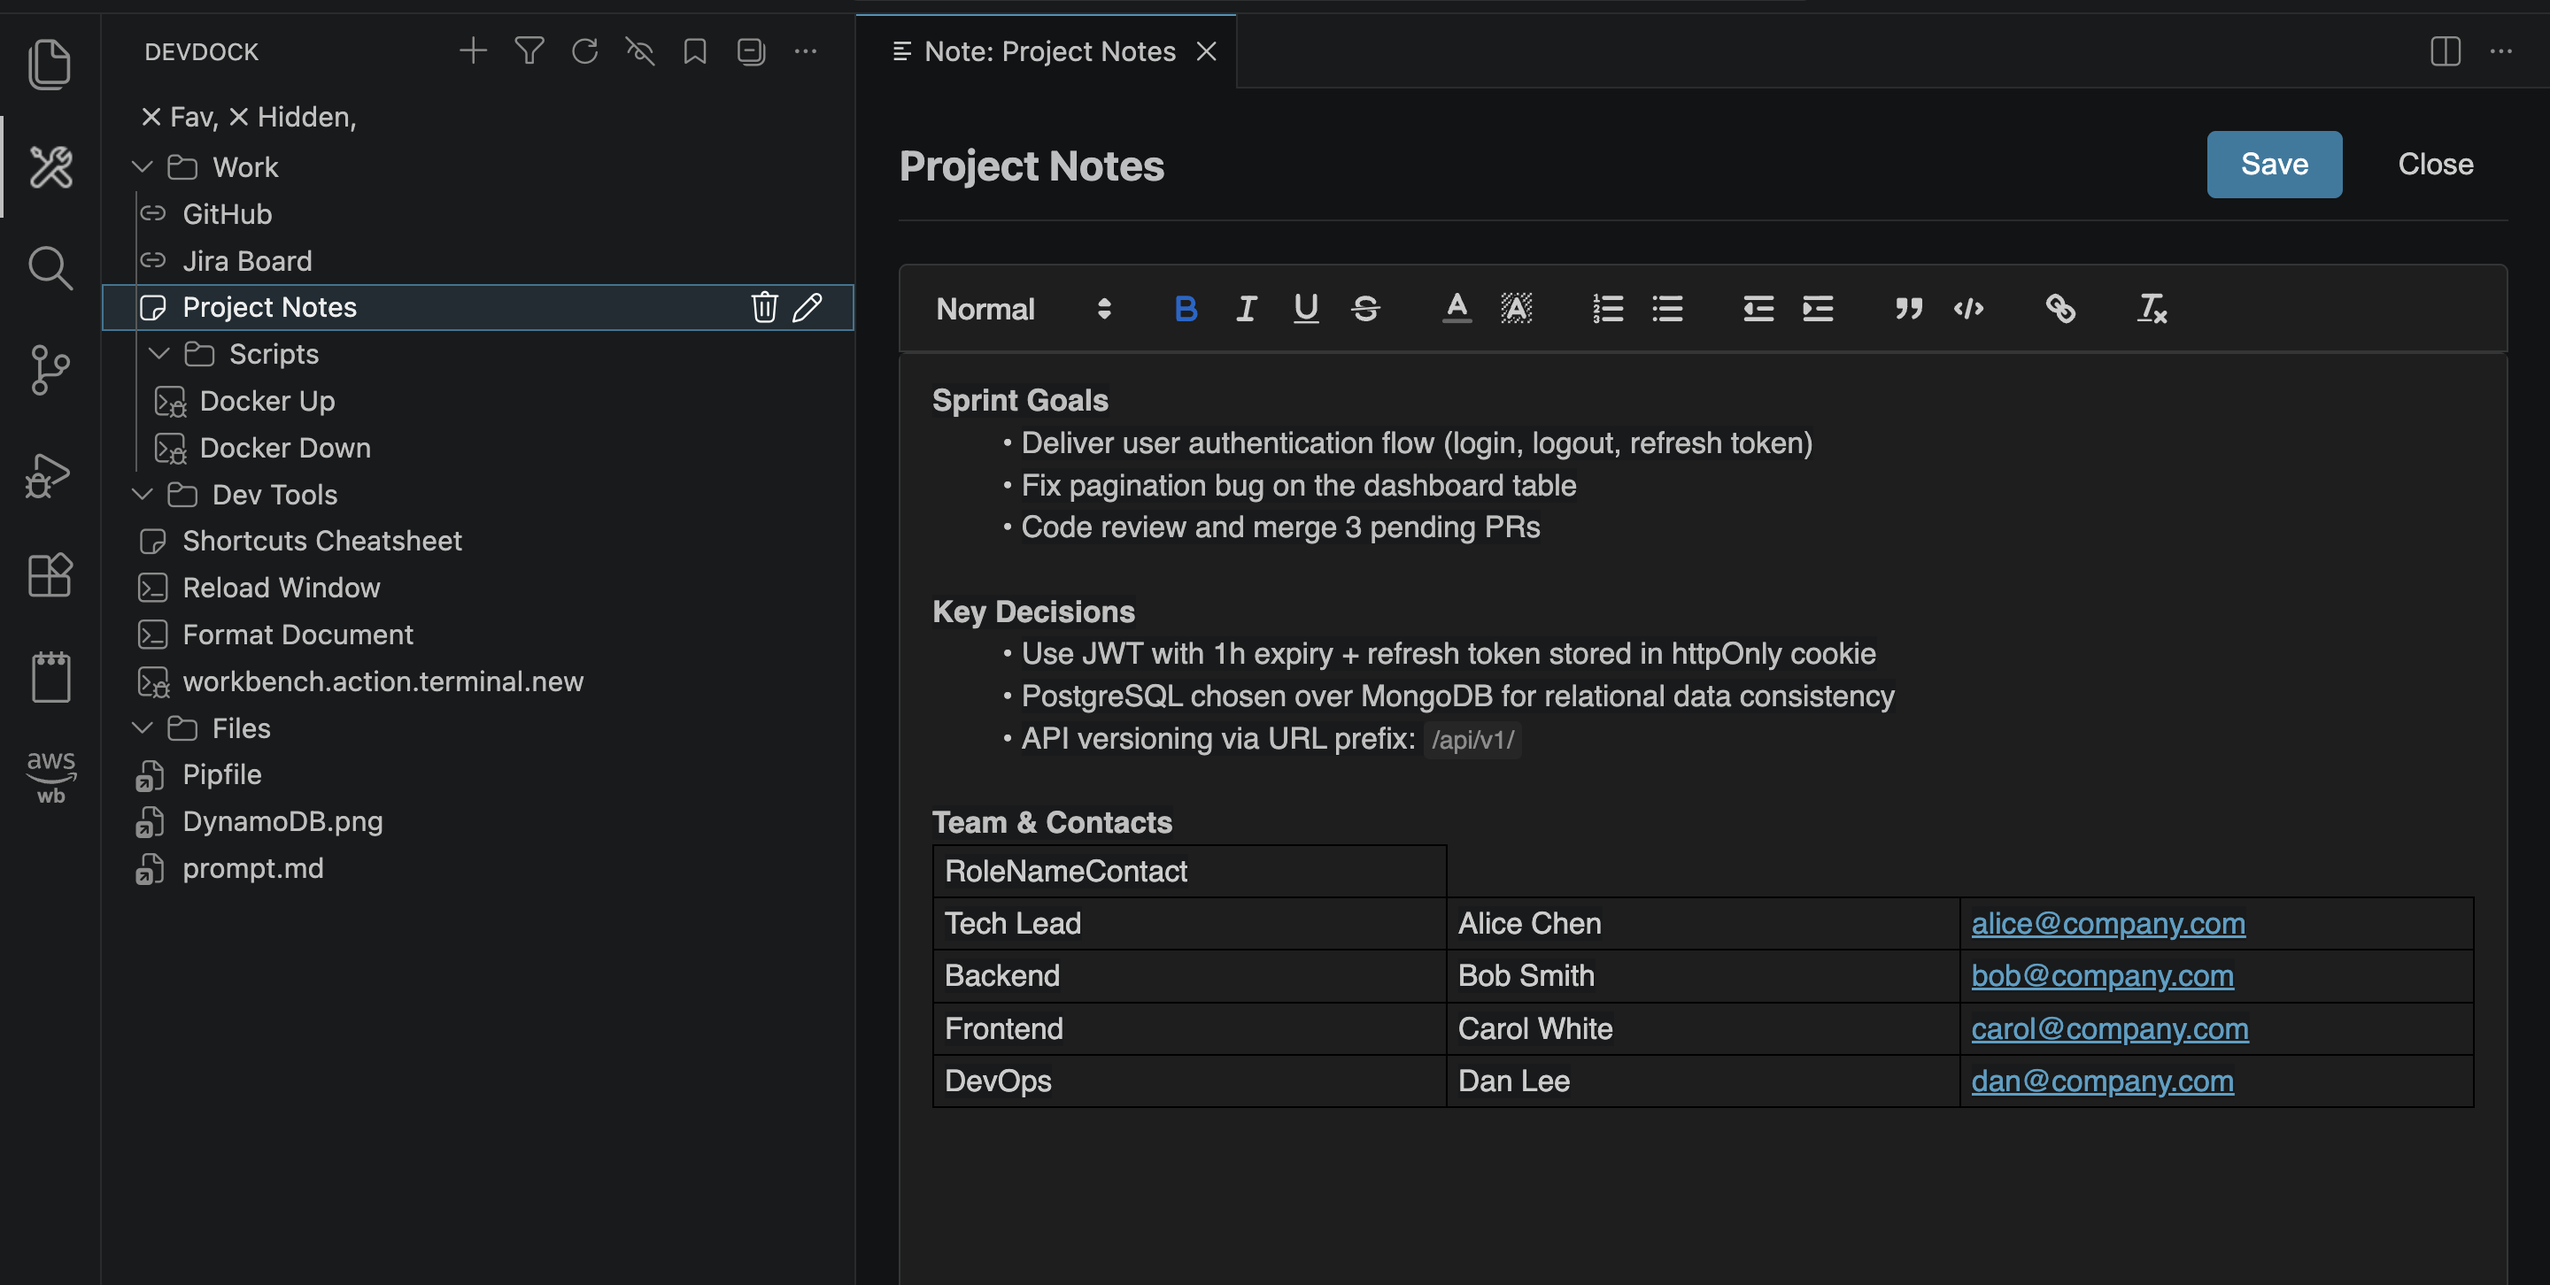
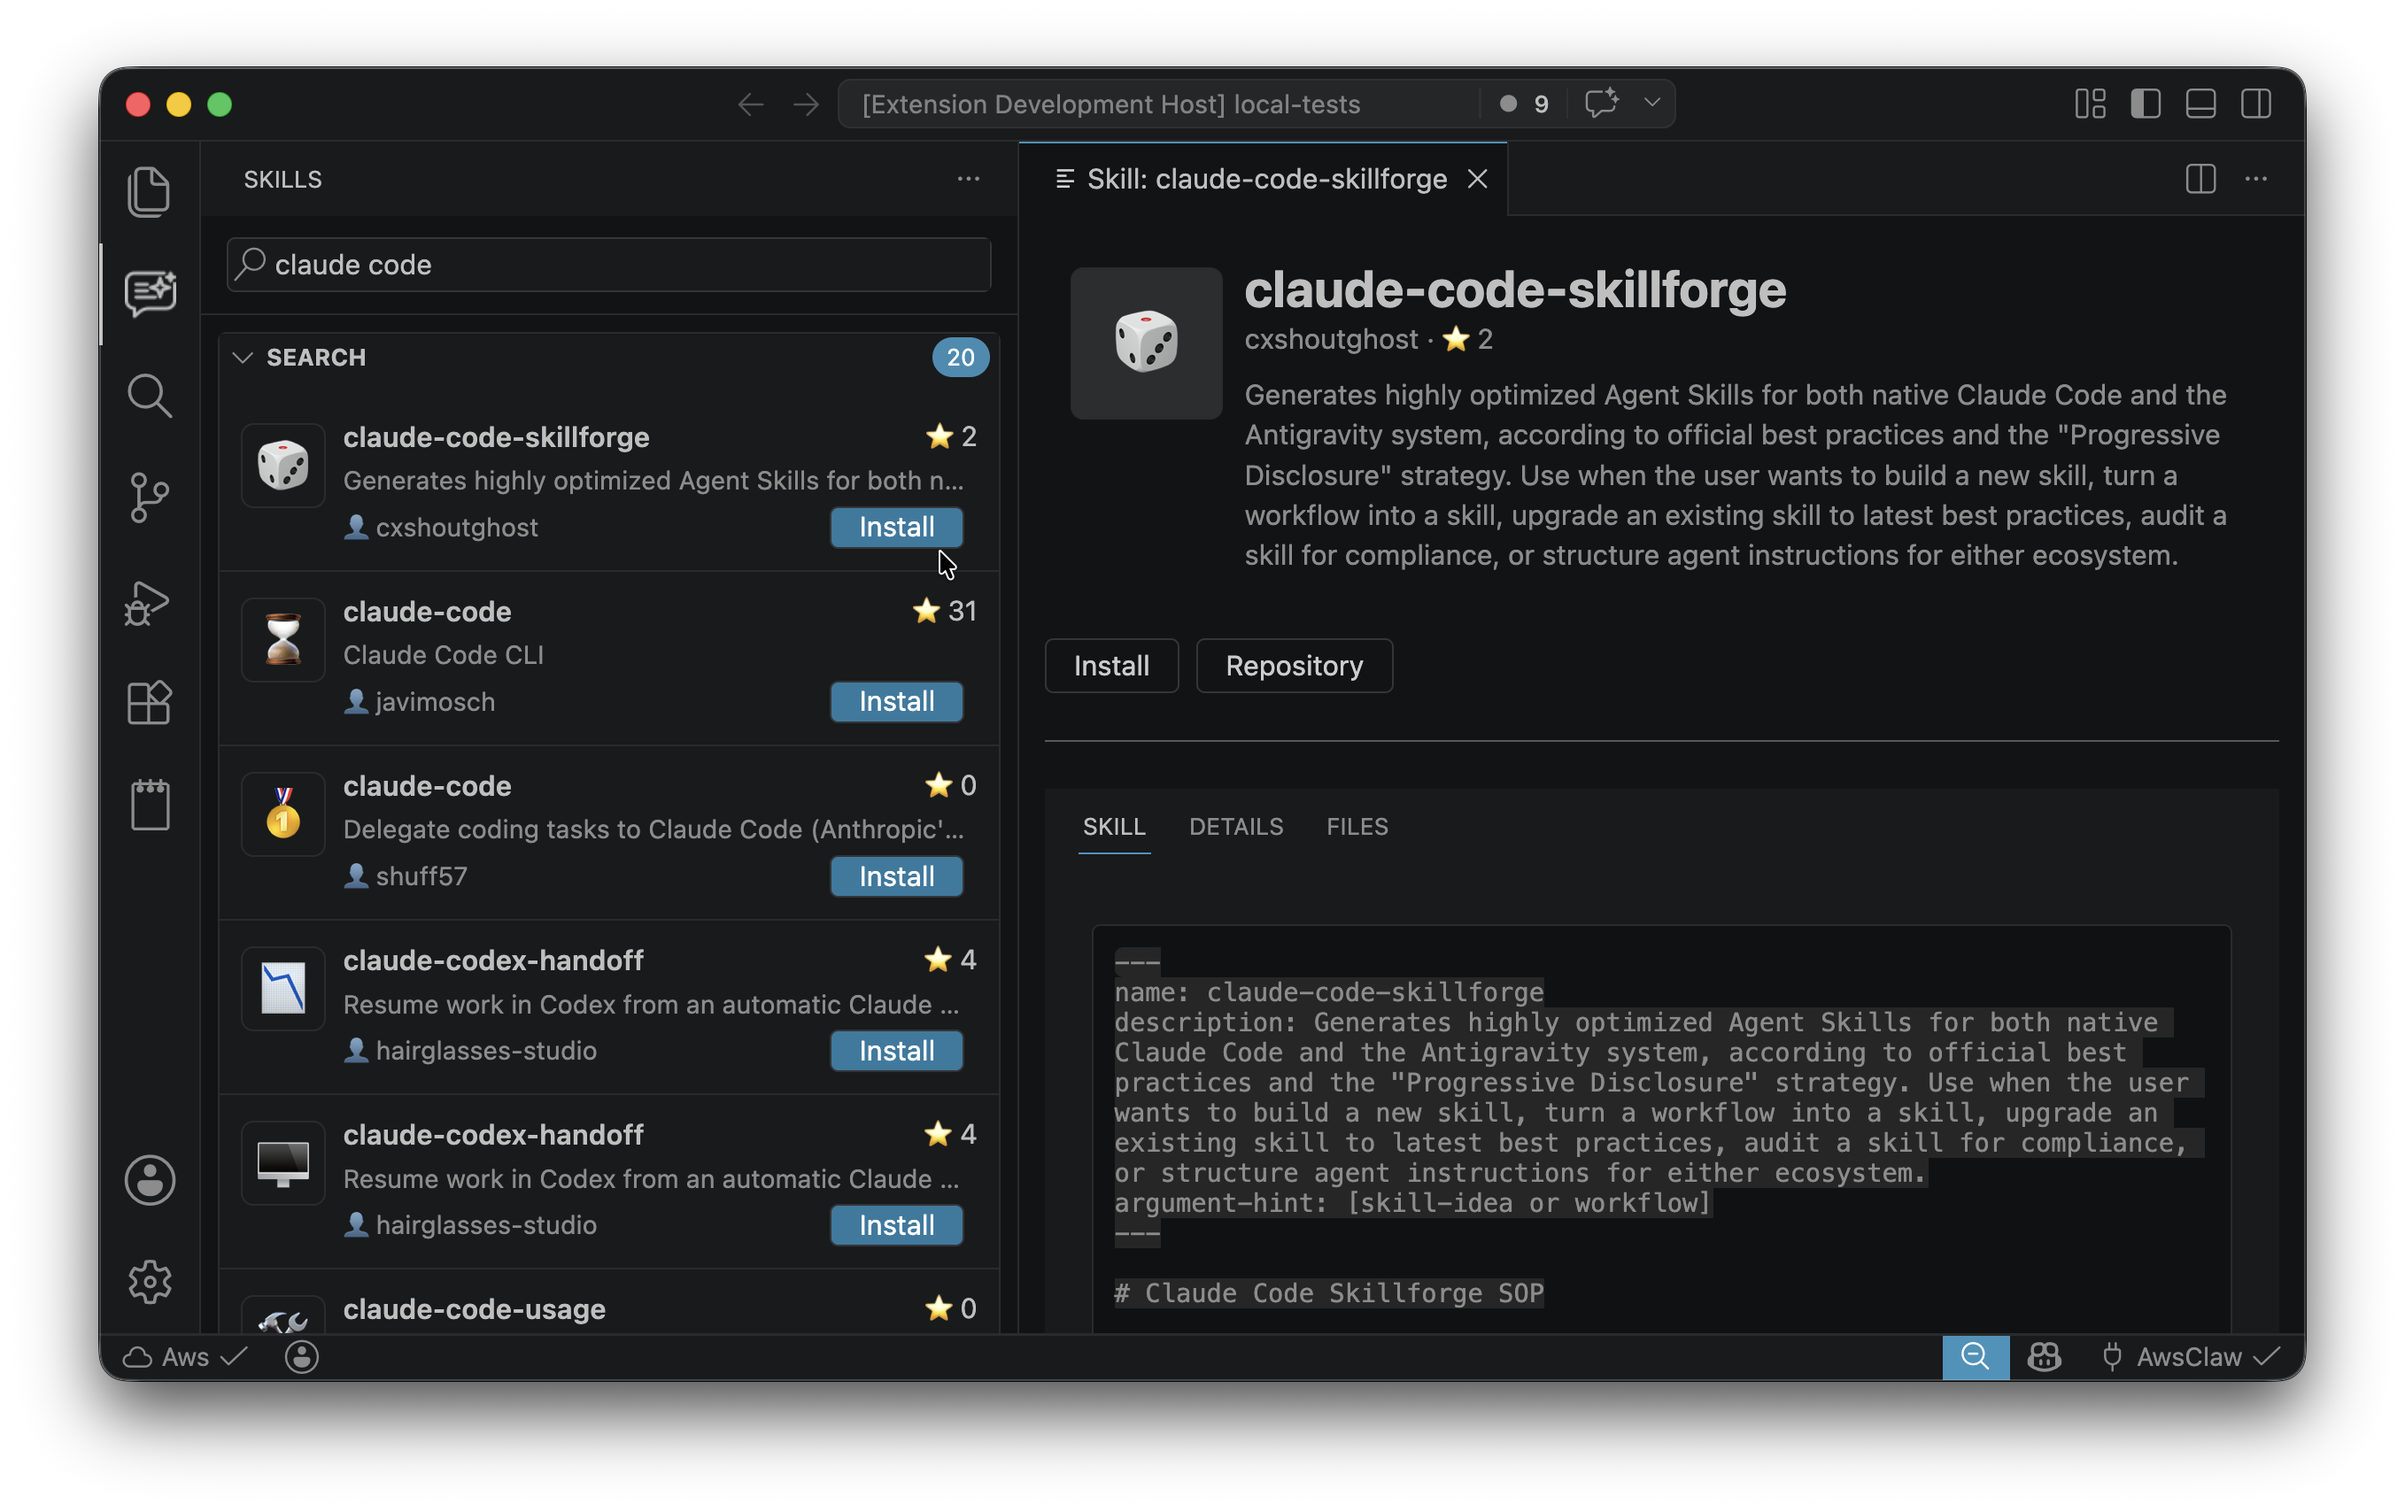
refactor(README): update extension description and features; remove obsolete styles

diff --git a/README.md b/README.md
@@ -1,123 +1,55 @@
 # Skills
 ![Skills](media/readme/main.png)
 
-Skills is a lightweight VS Code extension for building a personal dock inside the sidebar.
+Skills is a VS Code extension focused on discovering, inspecting, and managing AI skills from the Skills Marketplace.
 
-It keeps frequently used items close at hand:
+## What It Does
 
-- **Folders** — group related items together
-- **Notes** — rich-text editor for quick notes and instructions
-- **File Links** — open any file directly from the dock
-- **Bash Scripts** — run inline shell snippets with one click
-- **Bash File Shortcuts** — run external shell scripts from the dock
-- **VS Code Command Shortcuts** — trigger any VS Code command by ID
-- **Web Links** — open URLs in the default browser; supports alias and copy-to-clipboard
+- Search skills from `skillsmp.com`
+- View rich skill details in a dedicated panel
+- Browse repository files for each skill
+- Preview SKILL.md content when available
+- Install and uninstall skills for the current host editor
+- Track installed skills per tool in VS Code global storage
 
----
+## Current UI Behavior
 
-## Getting Started
+The sidebar contains three sections:
 
-1. Open the **Skills** panel in the Activity Bar.
-2. Click the **+** button to add an item.
-3. Choose the item type from the quick-pick list.
+- Search
+- Installed
+- Recommended
 
----
 
-## Item Types
+## Skill Detail Panel
 
-### Folder
-Group items under a label. Folders can be nested.
+Clicking a skill opens a full detail view with tabs:
 
-### Note
-Write free-form rich-text notes using the built-in Quill editor. Notes are saved automatically.
+- Skill: shows `SKILL.md` source content when present
+- Details: metadata and marketplace/repository information
+- Files: browse GitHub directory entries and preview text files
 
-### File Link
-Save a path to any local file. Click **Open** to open it in VS Code.
+The Files view starts from the skill path when available.
 
-### Bash Script
-Paste a shell snippet inline. Click **Run** to execute it in the integrated terminal.
+## Install Targets
 
-### Bash File Shortcut
-Point to an existing `.sh` file on disk. Click **Run** to execute it.
+The extension resolves the current host and installs per-tool:
 
-### VS Code Command
-Save a VS Code command ID (e.g. `workbench.action.reloadWindow`). Click **Run** to invoke it.
+- VS Code: `~/.vscode/extensions`
+- Cursor: `~/.cursor/extensions`
+- Windsurf: `~/.windsurf/extensions`
+- Antigravity: `~/.antigravity/skills`
 
-### Web Link
-Save a URL with a human-readable alias.
+## Important Note About Installation
 
-| Action | Result |
-|--------|--------|
-| **View** (eye icon) | Opens the URL in the default browser |
-| **Edit** (pencil icon) | Update the URL or alias |
-| **Copy** (copy icon) | Copies the URL to the clipboard |
-| **Remove** (trash icon) | Removes the link from the dock |
+Current installation is MVP behavior:
 
----
+- A local skill folder is created in the target tool directory
+- A `skill.json` metadata file is written
+- Full GitHub repository archive download/extraction is not implemented yet
 
-## AI Skills Marketplace
-
-Discover and install reusable AI skills directly from the **Skills Marketplace**. 
-
-### Accessing the Marketplace
-- Click the **Extensions** icon in the Skills toolbar (next to Refresh)
-- Or run the command: `Skills: Open Skills Marketplace`
-
-### Searching for Skills
-- Use the search box to find skills by name or keyword
-- Results are fetched from [skillsmp.com](https://skillsmp.com) in real-time
-- Results are cached for 5 minutes to improve performance
-- Click any skill card to open a full details view inspired by the VS Code extension page
-
-### Installing Skills
-- Click the **Install** button on a skill card
-- Skills are installed automatically for the current host editor running the extension
-- Installed skills are tracked and can be uninstalled at any time
-
-### Skill Details and GitHub Files
-- Open a selected skill's details page directly from the search results
-- Browse the skill repository from GitHub with folder navigation starting at the repository root
-- Preview supported text files inline before opening them on GitHub
-- Use the built-in **Files** tab to inspect repository contents without leaving VS Code
-
-### Managing Installed Skills
-- Installed skills are marked with a checkmark on their cards
-- Click the **GitHub** action to visit the skill's repository
-- Click **Uninstall** to remove a skill from the current host editor
-
----
-
-## Common Actions
-
-All item types support:
-
-- **Alias** — give any item a custom display name
-- **Favorite** — mark items to show in Favorites-only mode
-- **Hide / Unhide** — keep items without removing them
-- **Workspace scope** — restrict an item to the current workspace
-- **Tooltip** — set a custom hover tooltip
-- **Move Up / Move Down / Move to Folder** — reorder and reorganize items
-
----
-
-## Toolbar
-
-| Button | Action |
-|--------|--------|
-| `+` | Add a new item |
-| Filter | Filter visible items by text |
-| Bookmark | Toggle Favorites-only view |
-| Eye | Toggle display of hidden items |
-| Refresh | Reload the tree |
-
----
-
-## Persistence
-
-The dock state is saved to VS Code global storage and restored automatically on every launch. Items survive window reloads and VS Code restarts.
-
----
-
-## Contributing
-
-Bug reports and feature requests are welcome — use the **Bug and New Feature Request** option in the Skills toolbar menu.
+## Future Enhancements
+- Full skill installation with repository cloning or archive extraction
+- Better error handling and user feedback during installation
+- Support for additional tools and platforms
+- Improved UI/UX for skill discovery and management
